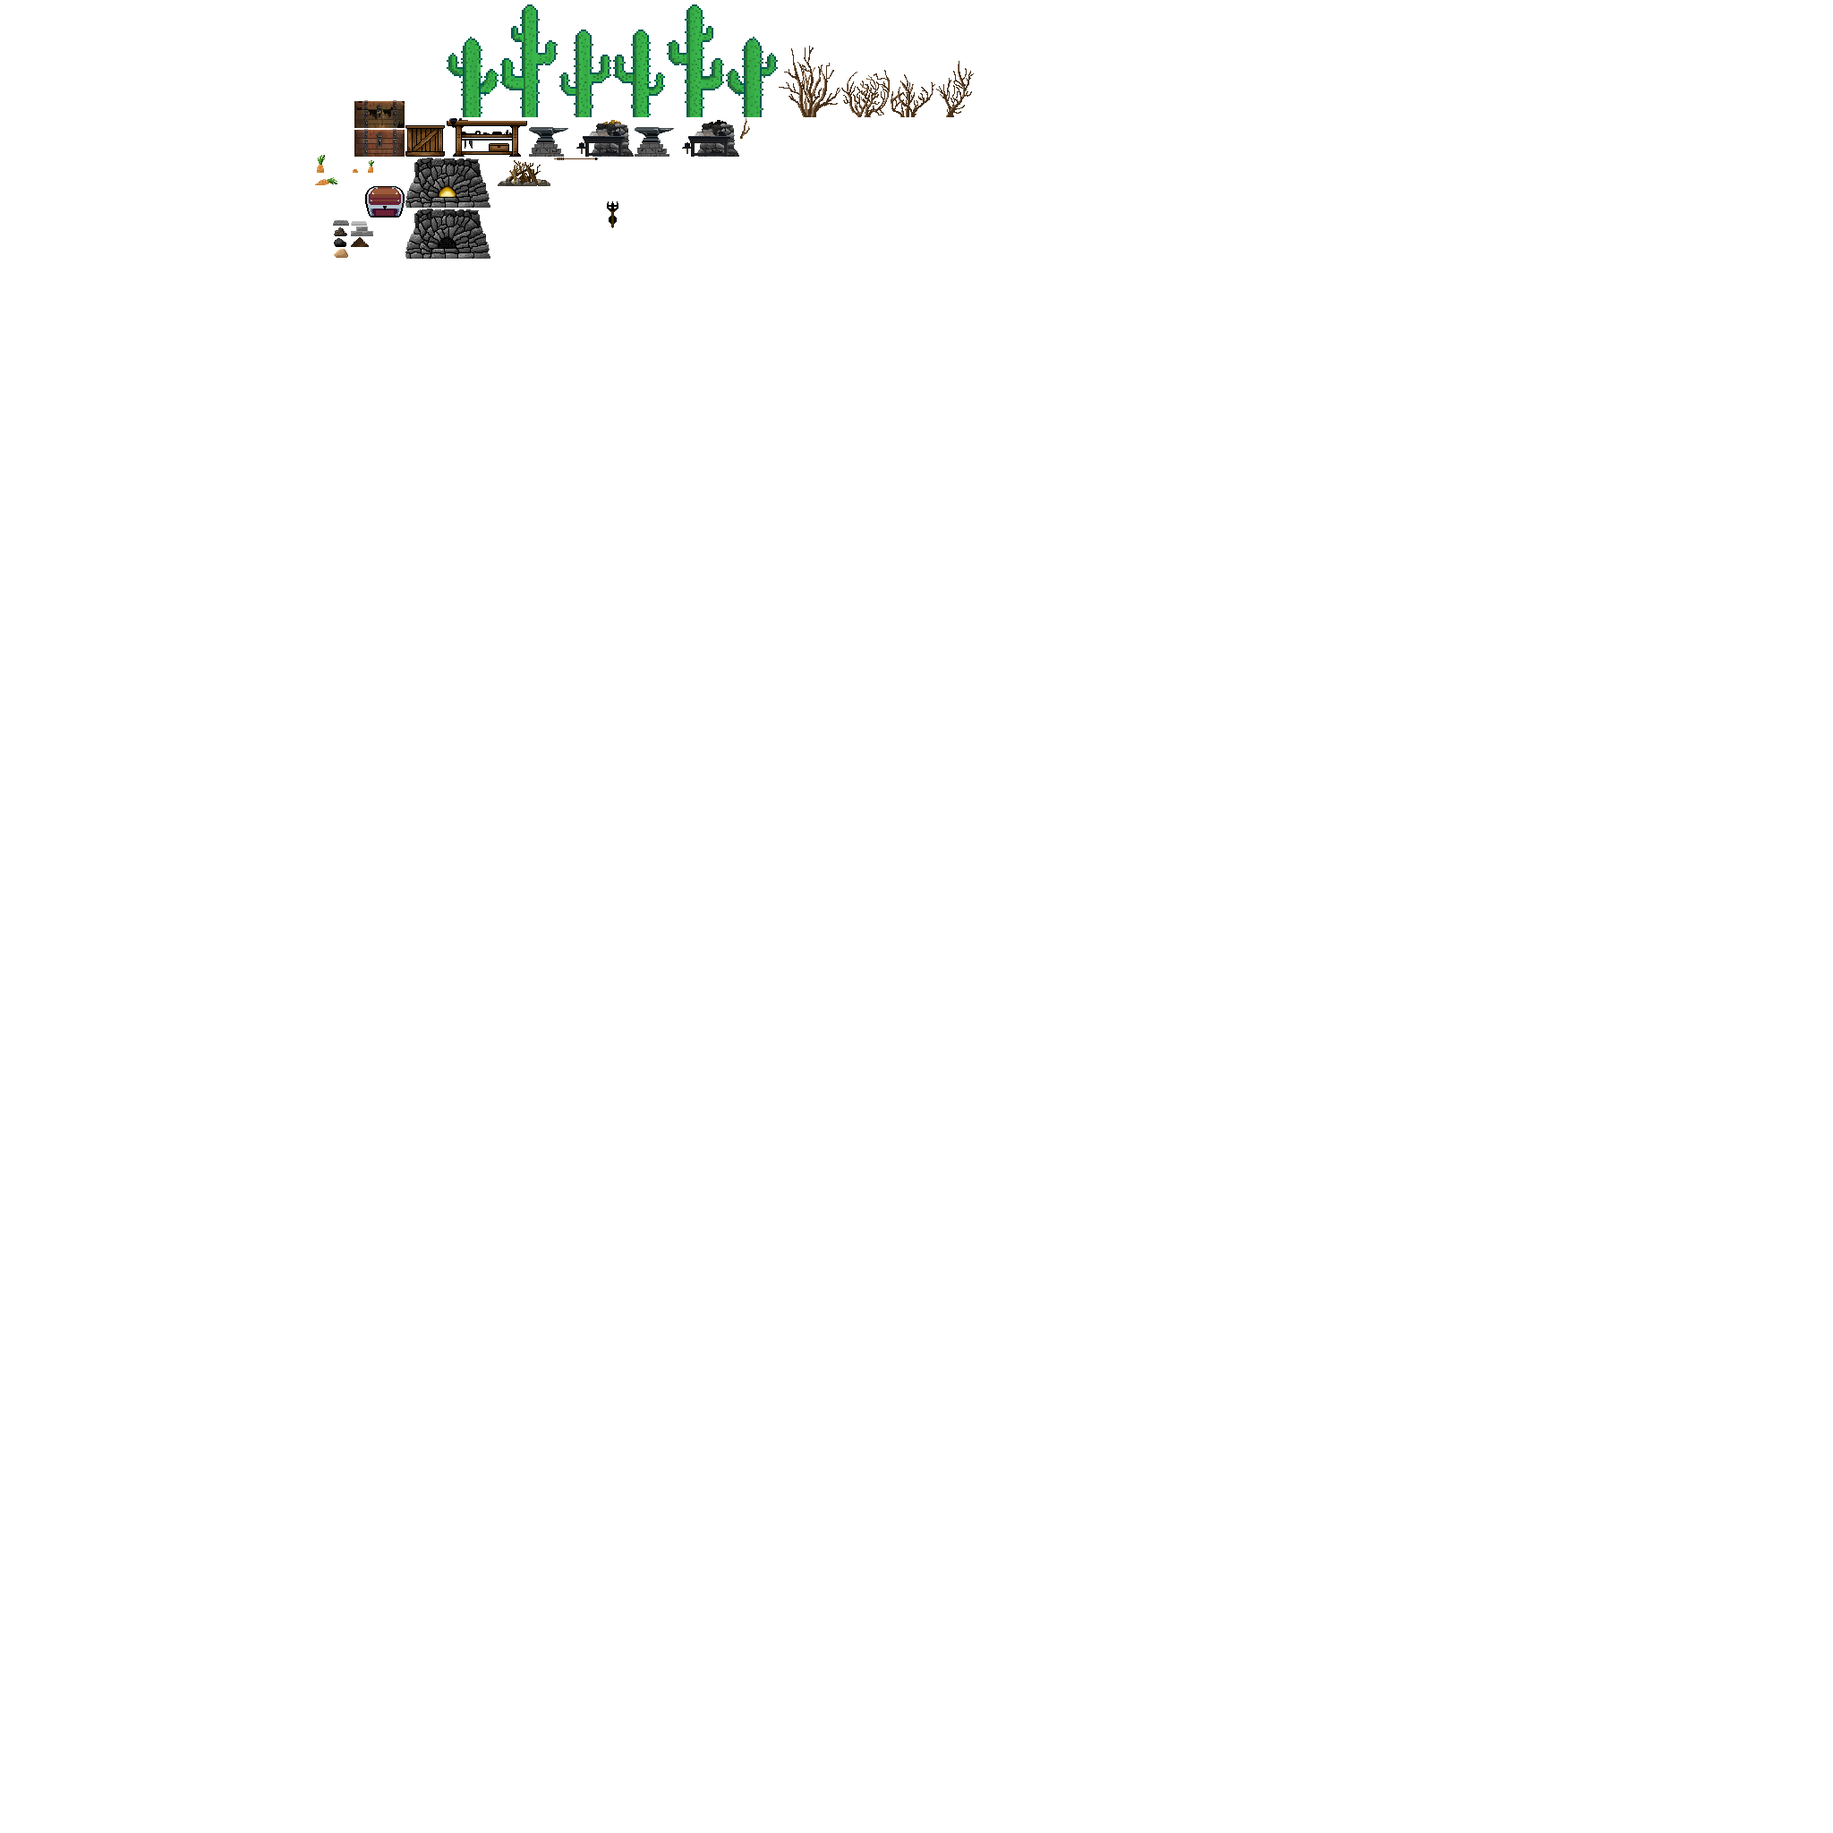
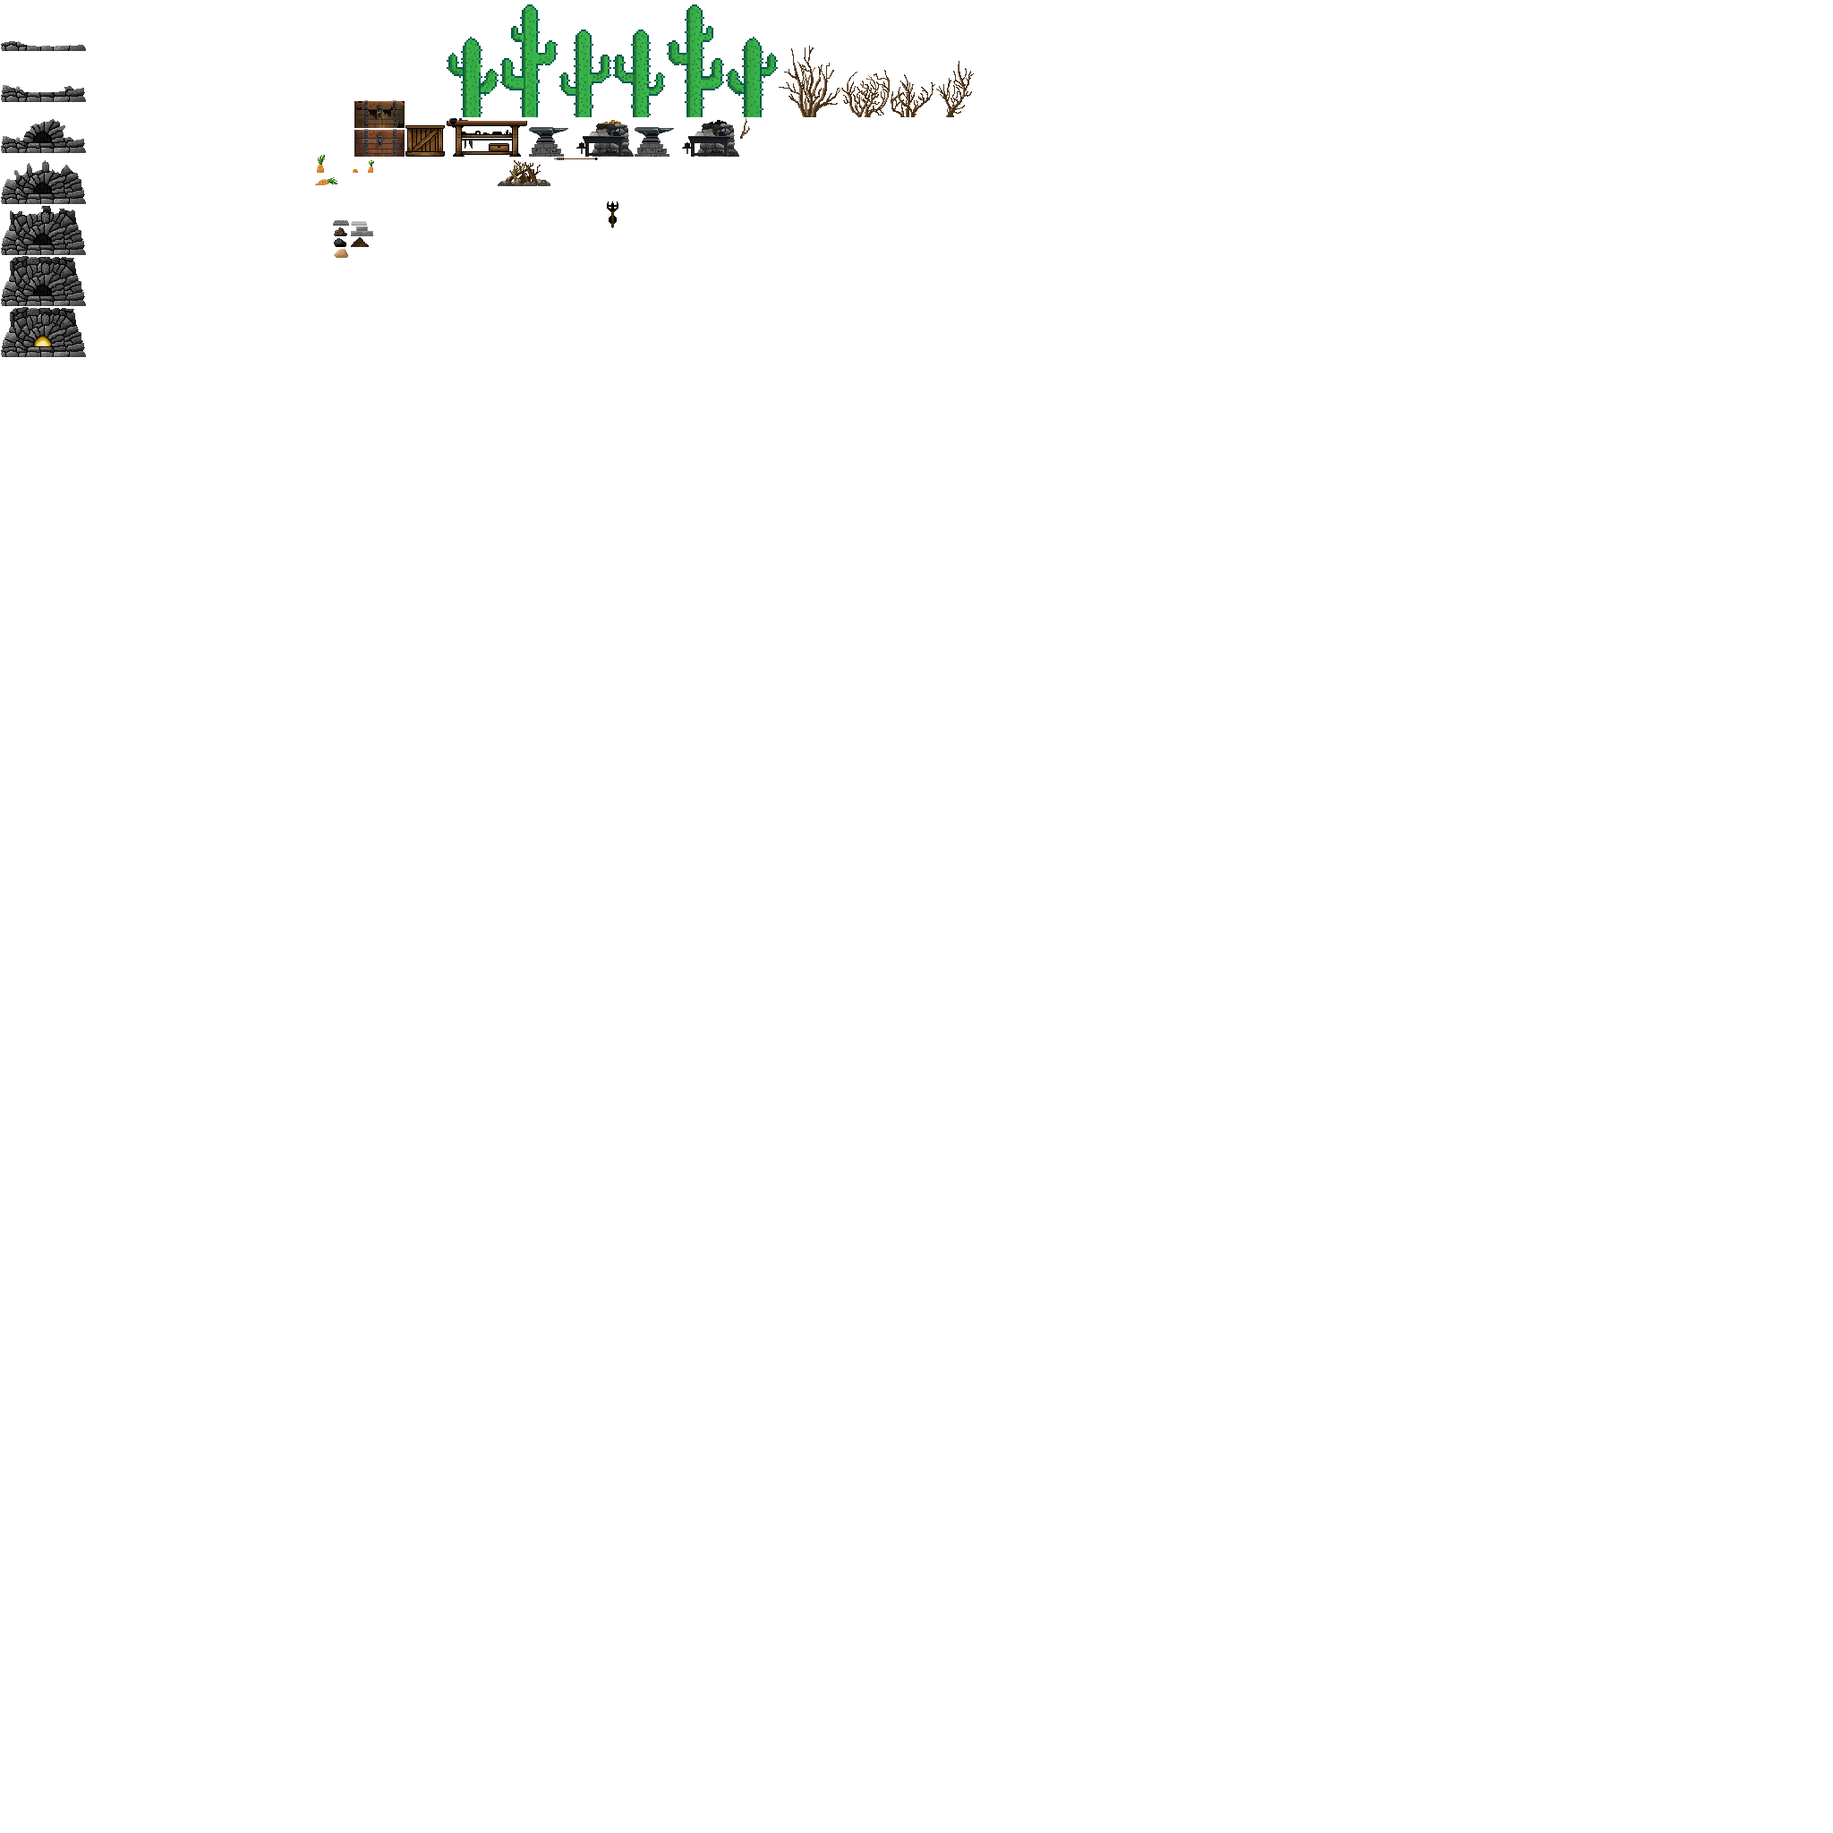
0.0.6 release

Changed region(s): [[0.0, 0.0, 0.0625, 0.2188], [0.1875, 0.0625, 0.2812, 0.1562]]

diff --git a/source/src/bloodandmithril/prop/construction/craftingstation/Furnace.java b/source/src/bloodandmithril/prop/construction/craftingstation/Furnace.java
@@ -5,6 +5,7 @@ import static bloodandmithril.item.items.material.Ingot.ingot;
 import static com.google.common.collect.Maps.newHashMap;
 
 import java.util.Map;
+import java.util.TreeMap;
 
 import bloodandmithril.character.individuals.Individual;
 import bloodandmithril.core.BloodAndMithrilClient;
@@ -22,9 +23,11 @@ import bloodandmithril.item.material.metal.Iron;
 import bloodandmithril.item.material.metal.Steel;
 import bloodandmithril.item.material.mineral.Mineral;
 import bloodandmithril.item.material.mineral.SandStone;
+import bloodandmithril.networking.ClientServerInterface;
 import bloodandmithril.util.Shaders;
 import bloodandmithril.util.Util;
 import bloodandmithril.util.Util.Colors;
+import bloodandmithril.world.Domain;
 import bloodandmithril.world.Domain.Depth;
 
 import com.badlogic.gdx.graphics.Color;
@@ -42,17 +45,33 @@ public class Furnace extends CraftingStation implements Container {
 
 	/** {@link TextureRegion} of the {@link Furnace} */
 	public static TextureRegion FURNACE, FURNACE_BURNING;
+	public static TextureRegion FURNACE1, FURNACE2, FURNACE3, FURNACE4, FURNACE5;
 
 	/** The {@link Mineral} this {@link Furnace} is made from */
 	private Class<? extends Mineral> material;
 
 	private static final Map<Item, Integer> craftables = Maps.newHashMap();
+	private static final TreeMap<Float, TextureRegion> inProgressTextures = Maps.newTreeMap();
 
 	static {
 		craftables.put(new Glass(), 1);
 		craftables.put(new GlassBottle(newHashMap()), 3);
 		craftables.put(ingot(Iron.class), 1);
 		craftables.put(ingot(Steel.class), 1);
+
+		if (ClientServerInterface.isClient()) {
+			Furnace.FURNACE1 = new TextureRegion(Domain.gameWorldTexture, 1, 1, 95, 56);
+			Furnace.FURNACE2 = new TextureRegion(Domain.gameWorldTexture, 1, 58, 95, 56);
+			Furnace.FURNACE3 = new TextureRegion(Domain.gameWorldTexture, 1, 115, 95, 56);
+			Furnace.FURNACE4 = new TextureRegion(Domain.gameWorldTexture, 1, 172, 95, 56);
+			Furnace.FURNACE5 = new TextureRegion(Domain.gameWorldTexture, 1, 229, 95, 56);
+			
+			inProgressTextures.put(0f/5f, FURNACE1);
+			inProgressTextures.put(1f/5f, FURNACE2);
+			inProgressTextures.put(2f/5f, FURNACE3);
+			inProgressTextures.put(3f/5f, FURNACE4);
+			inProgressTextures.put(4f/5f, FURNACE5);
+		}
 	}
 
 	/**
@@ -66,10 +85,16 @@ public class Furnace extends CraftingStation implements Container {
 
 	@Override
 	protected void internalRender(float constructionProgress) {
-		if (isOccupied()) {
-			spriteBatch.draw(FURNACE_BURNING, position.x - width / 2, position.y);
-		} else {
+		if (getConstructionProgress() == 0f) {
 			spriteBatch.draw(FURNACE, position.x - width / 2, position.y);
+		} else if (getConstructionProgress() >= 1f) {
+			if (isOccupied()) {
+				spriteBatch.draw(FURNACE_BURNING, position.x - width / 2, position.y);
+			} else {
+				spriteBatch.draw(FURNACE, position.x - width / 2, position.y);
+			}	
+		} else {
+			spriteBatch.draw(inProgressTextures.floorEntry(getConstructionProgress()).getValue(), position.x - width / 2, position.y);
 		}
 	}
 

diff --git a/source/src/bloodandmithril/ui/components/window/MainMenuWindow.java b/source/src/bloodandmithril/ui/components/window/MainMenuWindow.java
@@ -179,7 +179,7 @@ public class MainMenuWindow extends Window {
 						250,
 						100,
 						args -> {
-							for (Component component : UserInterface.layeredComponents) {
+							for (Component component : UserInterface.getLayeredComponents()) {
 								if (component instanceof Window && ((Window) component).title.equals("Enter IP") ||
 									component instanceof MainMenuWindow) {
 									component.setClosing(true);
@@ -200,7 +200,7 @@ public class MainMenuWindow extends Window {
 									} catch (Exception e) {
 
 										// Deactivate all windows, close the connecting message pop-up.
-										for (Component component : UserInterface.layeredComponents) {
+										for (Component component : UserInterface.getLayeredComponents()) {
 											component.setActive(false);
 											if (component instanceof Window && ((Window) component).title.equals("Connecting")) {
 												component.setClosing(true);
@@ -235,7 +235,7 @@ public class MainMenuWindow extends Window {
 												300,
 												100,
 												() -> {
-													for (Component component : UserInterface.layeredComponents) {
+													for (Component component : UserInterface.getLayeredComponents()) {
 														if (component instanceof Window && ((Window) component).title.equals("Error")) {
 															component.setClosing(true);
 														} else if (component instanceof Window && ((Window) component).title.equals("Enter IP")) {
@@ -299,7 +299,7 @@ public class MainMenuWindow extends Window {
 	 * Single player mode was selected
 	 */
 	private void singlePlayer() {
-		for (Component component : UserInterface.layeredComponents) {
+		for (Component component : UserInterface.getLayeredComponents()) {
 			if (component instanceof MainMenuWindow) {
 				component.setClosing(true);
 			}
@@ -310,7 +310,7 @@ public class MainMenuWindow extends Window {
 
 	public static void removeWindows() {
 		UserInterface.buttons.remove("connect");
-		for (Component component : UserInterface.layeredComponents) {
+		for (Component component : UserInterface.getLayeredComponents()) {
 			if (component instanceof Window && ((Window) component).title.equals("Connecting") ||
 				component instanceof Window && ((Window) component).title.equals("Enter IP") ||
 				component instanceof MainMenuWindow ||

diff --git a/source/src/bloodandmithril/ui/UserInterface.java b/source/src/bloodandmithril/ui/UserInterface.java
@@ -138,7 +138,7 @@ public class UserInterface {
 	public static List<ContextMenu> contextMenus = new ArrayList<ContextMenu>();
 
 	/** {@link Window}s */
-	public static ArrayDeque<Component> layeredComponents = new ArrayDeque<Component>();
+	private static ArrayDeque<Component> layeredComponents = new ArrayDeque<Component>();
 
 	/** {@link TextBubble}s */
 	public static ArrayDeque<TextBubble> textBubbles = new ArrayDeque<TextBubble>();
@@ -201,6 +201,14 @@ public class UserInterface {
 	public static synchronized void setup() {
 		loadBars();
 		loadButtons();
+	}
+	
+	
+	/**
+	 * @return all components
+	 */
+	public synchronized static Deque<Component> getLayeredComponents() {
+		return new ArrayDeque<Component>(layeredComponents);
 	}
 
 
@@ -1464,7 +1472,7 @@ public class UserInterface {
 
 
 	/** Adds a {@link Component} to {@link #layeredComponents} */
-	public static void addLayeredComponent(Component toAdd) {
+	public synchronized static void addLayeredComponent(Component toAdd) {
 		for (Component component : layeredComponents) {
 			if (component instanceof Window) {
 				((Window)component).setActive(false);
@@ -1475,7 +1483,7 @@ public class UserInterface {
 
 
 	/** Adds a {@link Component} to {@link #layeredComponents}, checking if an existing one with the same title exists */
-	public static void addLayeredComponentUnique(Window toAdd) {
+	public synchronized static void addLayeredComponentUnique(Window toAdd) {
 		Window existing = null;
 
 		for (Component window : layeredComponents) {

diff --git a/source/src/bloodandmithril/ui/components/bar/BottomBar.java b/source/src/bloodandmithril/ui/components/bar/BottomBar.java
@@ -94,7 +94,7 @@ public class BottomBar extends Component {
 
 	/** Called when the factions button is clicked */
 	private void factionsClicked() {
-		for (Component component : newArrayList(UserInterface.layeredComponents)) {
+		for (Component component : newArrayList(UserInterface.getLayeredComponents())) {
 			if (component instanceof FactionsWindow) {
 				((FactionsWindow) component).x = BloodAndMithrilClient.WIDTH/2 - ((FactionsWindow) component).width/2;
 				((FactionsWindow) component).y = BloodAndMithrilClient.HEIGHT/2 + ((FactionsWindow) component).height/2;
@@ -140,7 +140,7 @@ public class BottomBar extends Component {
 			new MenuItem(
 				"Chat",
 				() -> {
-					for (Component component : newArrayList(UserInterface.layeredComponents)) {
+					for (Component component : newArrayList(UserInterface.getLayeredComponents())) {
 						if (component instanceof ChatWindow) {
 							((ChatWindow) component).x = BloodAndMithrilClient.WIDTH/2 - ((ChatWindow) component).width/2;
 							((ChatWindow) component).y = BloodAndMithrilClient.HEIGHT/2 + ((ChatWindow) component).height/2;
@@ -181,7 +181,7 @@ public class BottomBar extends Component {
 		copy.clear();
 		int size = 0;
 		ArrayList<MenuItem> items = new ArrayList<>();
-		for (final Component component : UserInterface.layeredComponents) {
+		for (final Component component : UserInterface.getLayeredComponents()) {
 			if (component instanceof Window) {
 				if (((Window) component).minimized) {
 					size++;

diff --git a/source/src/bloodandmithril/prop/Prop.java b/source/src/bloodandmithril/prop/Prop.java
@@ -110,9 +110,10 @@ public abstract class Prop implements Serializable, Visible {
 	public abstract String getContextMenuItemLabel();
 
 	public static void setup() {
+		Furnace.FURNACE = new TextureRegion(Domain.gameWorldTexture, 1, 286, 95, 56);
+		Furnace.FURNACE_BURNING = new TextureRegion(Domain.gameWorldTexture, 1, 343, 95, 56);
+		
 		Campfire.CAMPFIRE = new TextureRegion(Domain.gameWorldTexture, 554, 176, 64, 32);
-		Furnace.FURNACE_BURNING = new TextureRegion(Domain.gameWorldTexture, 453, 176, 95, 56);
-		Furnace.FURNACE = new TextureRegion(Domain.gameWorldTexture, 453, 233, 95, 56);
 		WoodenChest.woodenChest = new TextureRegion(Domain.gameWorldTexture, 396, 144, 56, 31);
 		RottenWoodenChest.rottenWoodenChest = new TextureRegion(Domain.gameWorldTexture, 396, 112, 56, 31);
 		SmallWoodenCrate.woodenCrate = new TextureRegion(Domain.gameWorldTexture, 453, 140, 44, 35);

diff --git a/source/src/bloodandmithril/character/ai/task/Harvest.java b/source/src/bloodandmithril/character/ai/task/Harvest.java
@@ -129,7 +129,7 @@ public class Harvest extends CompositeAITask {
 							}
 						}
 						taskDone = true;
-						InventoryWindow existingInventoryWindow = (InventoryWindow) Iterables.find(UserInterface.layeredComponents, new Predicate<Component>() {
+						InventoryWindow existingInventoryWindow = (InventoryWindow) Iterables.find(UserInterface.getLayeredComponents(), new Predicate<Component>() {
 							@Override
 							public boolean apply(Component input) {
 								if (input instanceof Window) {

diff --git a/source/src/bloodandmithril/ui/components/window/SelectedIndividualsControlWindow.java b/source/src/bloodandmithril/ui/components/window/SelectedIndividualsControlWindow.java
@@ -110,7 +110,7 @@ public class SelectedIndividualsControlWindow extends Window {
 			return individual.isShutUp() ? 0 : 1;
 		}).sum() > 0;
 
-		boolean buttonsActive = UserInterface.layeredComponents.isEmpty() ? false : UserInterface.layeredComponents.getLast() == this;
+		boolean buttonsActive = UserInterface.getLayeredComponents().isEmpty() ? false : UserInterface.getLayeredComponents().getLast() == this;
 		boolean selected = Domain.getSelectedIndividuals().size() > 0;
 
 		// Run button

diff --git a/source/src/bloodandmithril/prop/construction/Construction.java b/source/src/bloodandmithril/prop/construction/Construction.java
@@ -293,7 +293,7 @@ public abstract class Construction extends Prop implements Container {
 		} else {
 			materialContainer.giveItem(item);
 			if (ClientServerInterface.isClient()) {
-				UserInterface.layeredComponents.stream().filter((component) -> {
+				UserInterface.getLayeredComponents().stream().filter((component) -> {
 					return component instanceof RequiredMaterialsWindow;
 				}).forEach((component) -> {
 					((RequiredMaterialsWindow) component).refresh();

diff --git a/source/src/bloodandmithril/networking/requests/SendChatMessage.java b/source/src/bloodandmithril/networking/requests/SendChatMessage.java
@@ -66,7 +66,7 @@ public class SendChatMessage implements Request {
 		public void acknowledge() {
 			ChatWindow.addMessage(message);
 
-			if (!tryFind(UserInterface.layeredComponents, component -> {
+			if (!tryFind(UserInterface.getLayeredComponents(), component -> {
 				return component instanceof ChatWindow;
 			}).isPresent()) {
 				FloatingText floatingText = floatingText("New message!", Color.ORANGE, new Vector2(83, 50), true);

diff --git a/source/src/bloodandmithril/world/Domain.java b/source/src/bloodandmithril/world/Domain.java
@@ -443,7 +443,7 @@ public class Domain {
 		individuals.put(indi.getId().getId(), indi);
 		Domain.getWorld(worldId).getIndividuals().add(indi.getId().getId());
 		if (ClientServerInterface.isClient()) {
-			for (Component component : UserInterface.layeredComponents) {
+			for (Component component : UserInterface.getLayeredComponents()) {
 				if (component instanceof UnitsWindow) {
 					((UnitsWindow) component).refresh();
 				}

diff --git a/source/src/bloodandmithril/networking/requests/ChangeFactionControlPassword.java b/source/src/bloodandmithril/networking/requests/ChangeFactionControlPassword.java
@@ -59,7 +59,7 @@ public class ChangeFactionControlPassword implements Request {
 	public static class RefreshFactionWindow implements Response {
 		@Override
 		public void acknowledge() {
-			for (Component component : UserInterface.layeredComponents) {
+			for (Component component : UserInterface.getLayeredComponents()) {
 				if (component instanceof FactionsWindow) {
 					((FactionsWindow) component).refreshWindow();
 				}

diff --git a/source/src/bloodandmithril/networking/requests/RequestClientList.java b/source/src/bloodandmithril/networking/requests/RequestClientList.java
@@ -69,7 +69,7 @@ public class RequestClientList implements Request {
 
 		@Override
 		public void acknowledge() {
-			for (Component component : UserInterface.layeredComponents) {
+			for (Component component : UserInterface.getLayeredComponents()) {
 				if (component instanceof ChatWindow) {
 
 					List<HashMap<ListingMenuItem<String>, Object>> listings;
